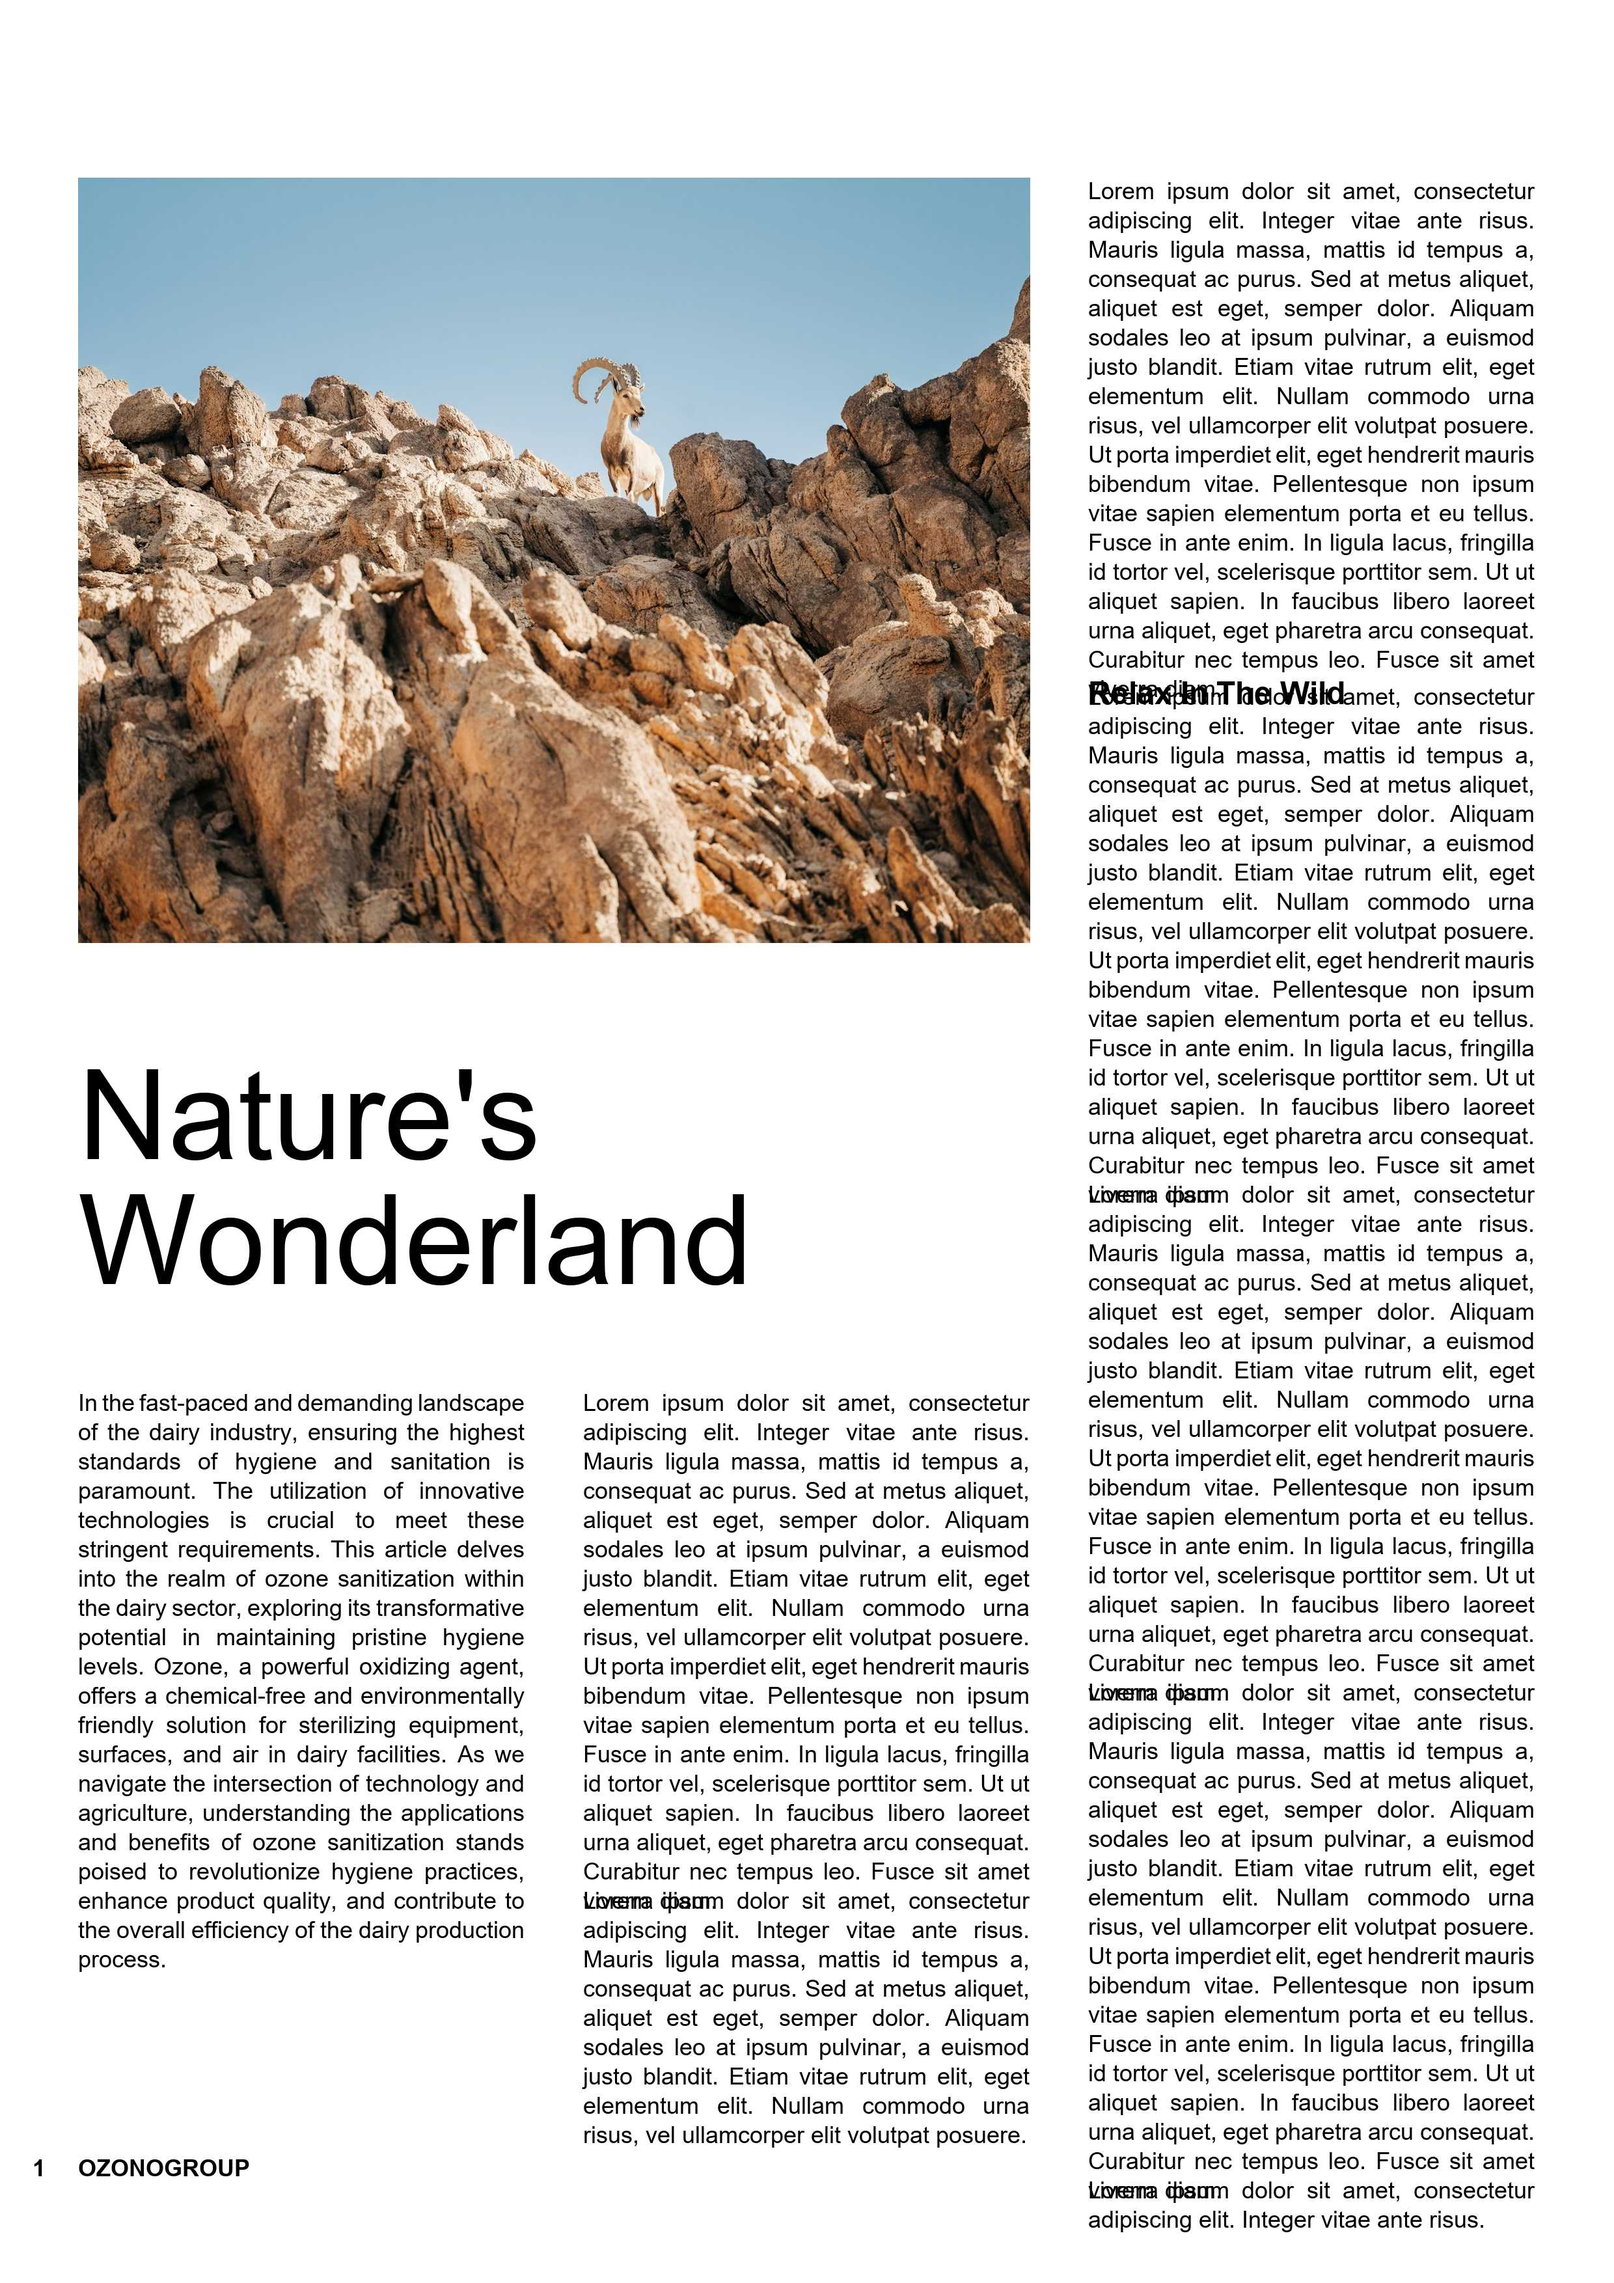
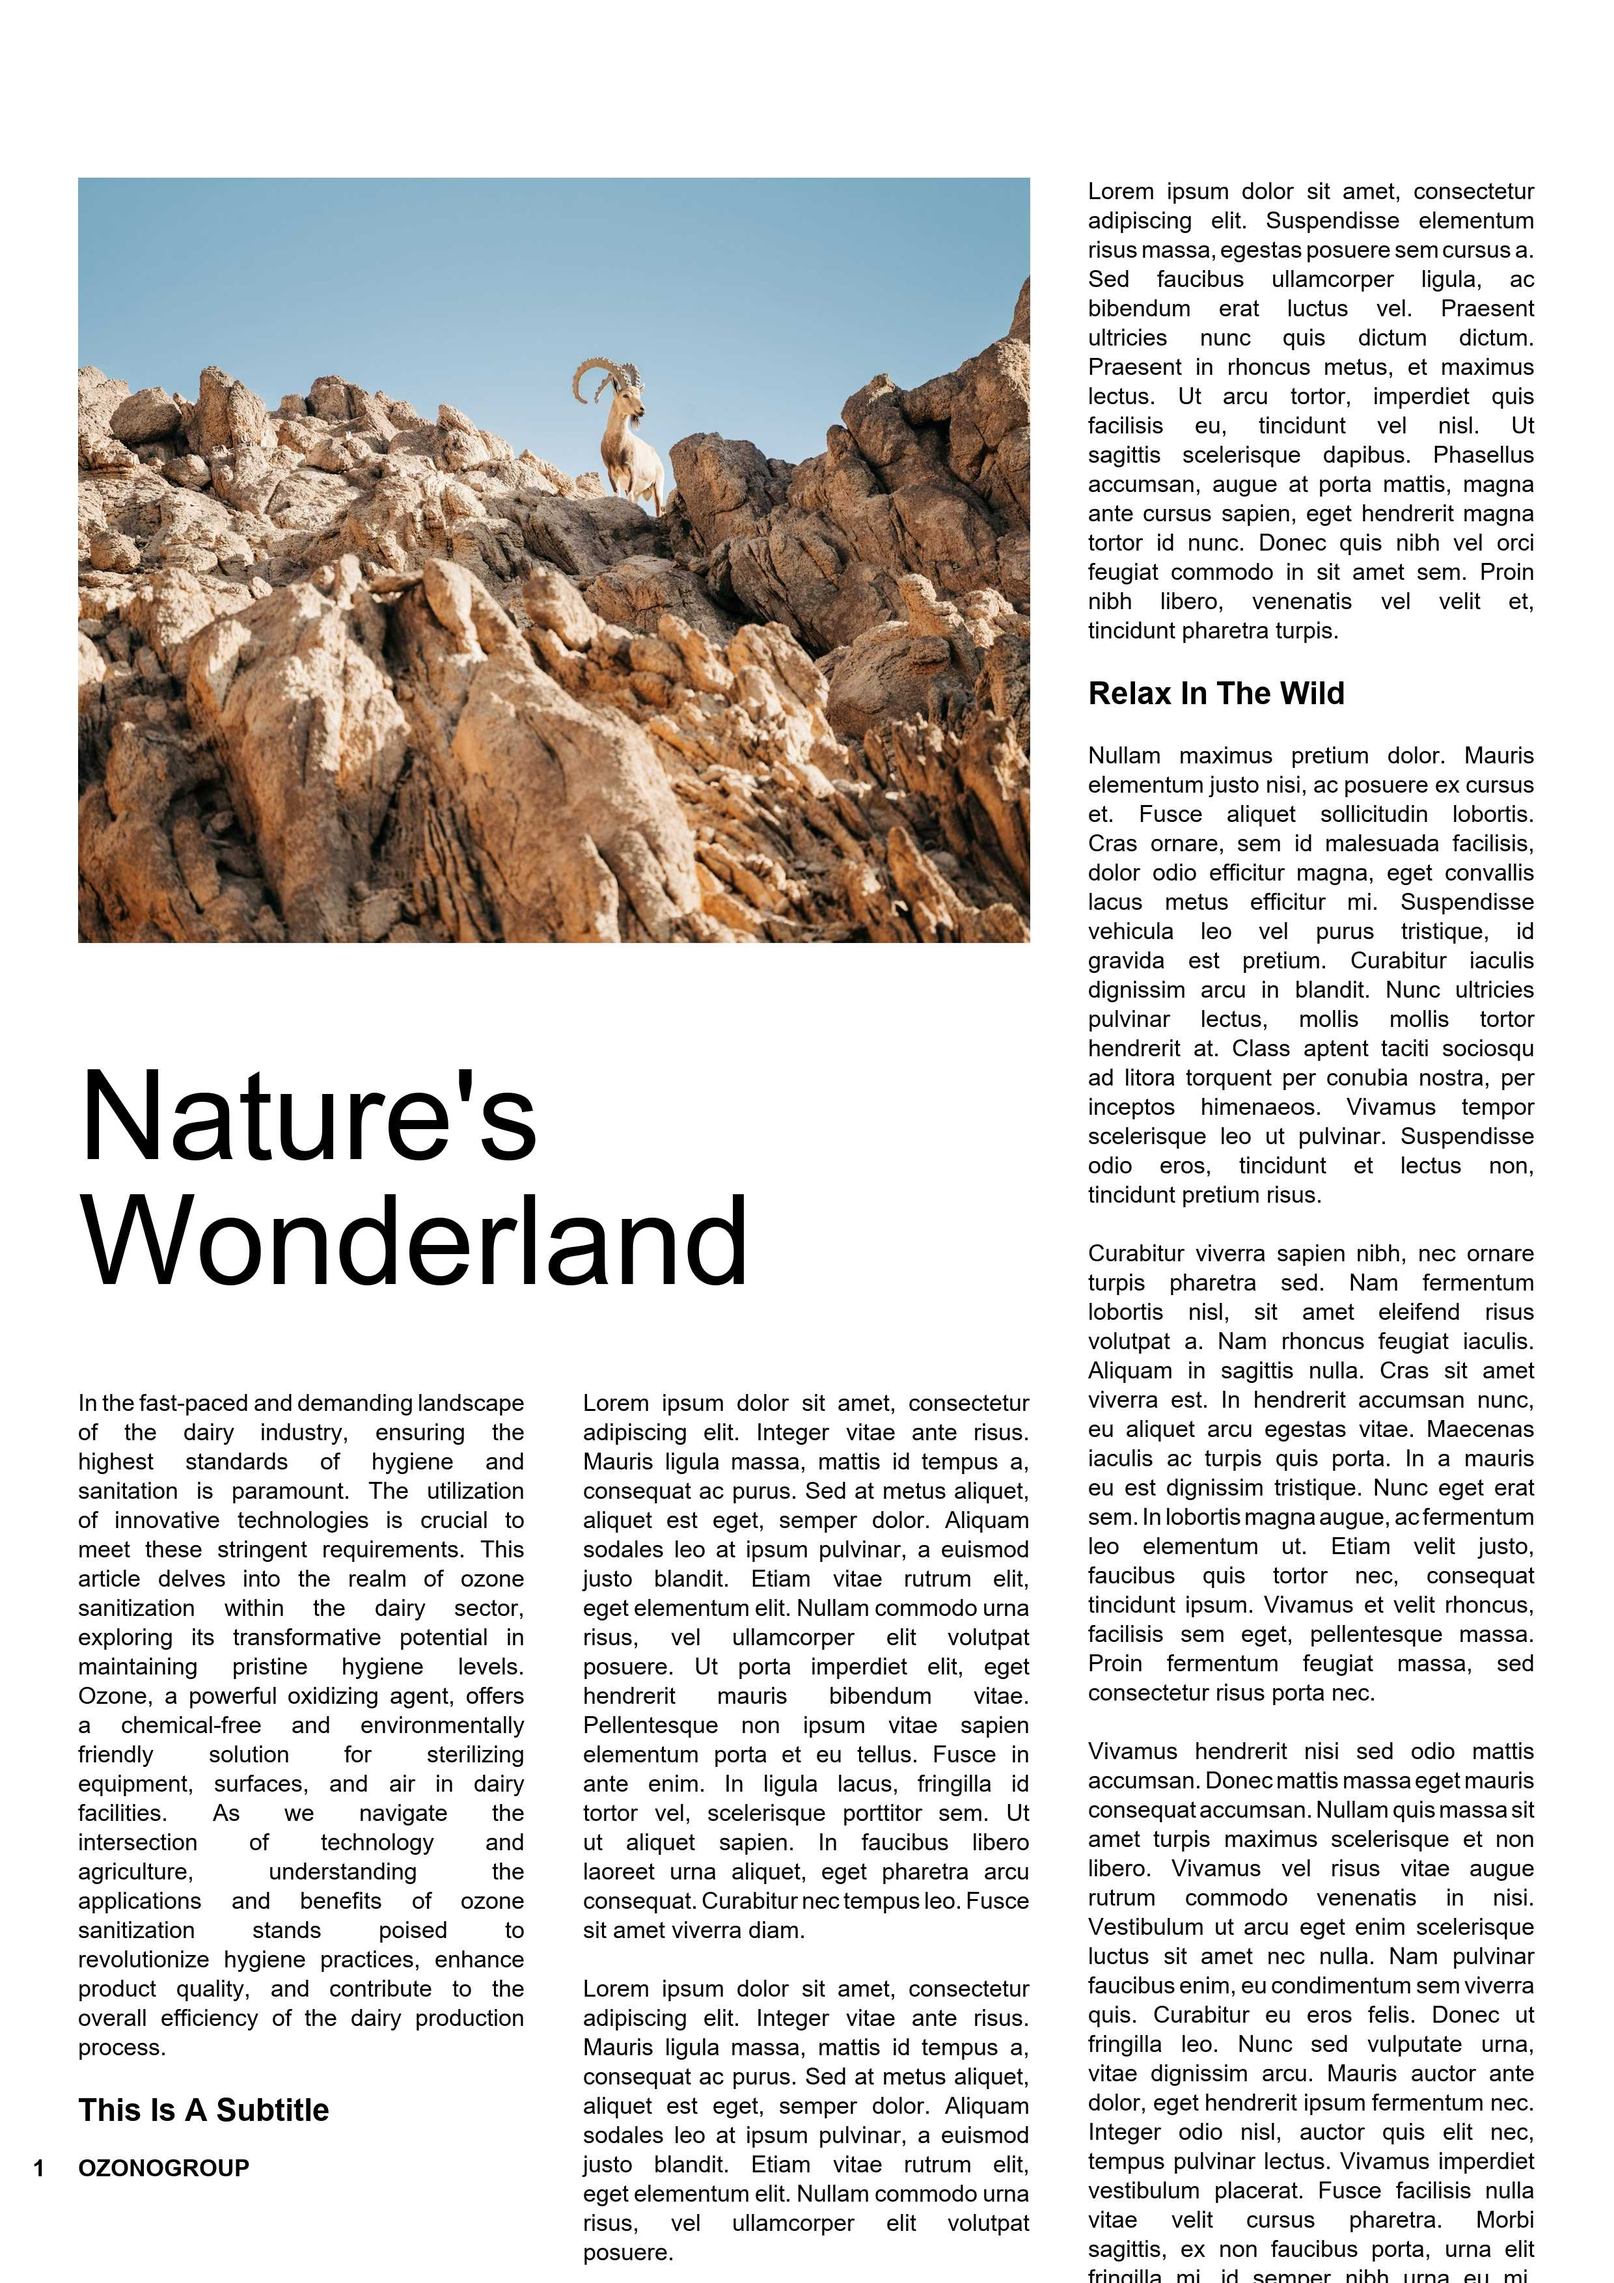
'

Changed region(s): [[0.652, 0.0932, 0.9625, 1.0], [0.031, 0.6214, 0.652, 0.9943]]

diff --git a/admin/magazine-python/main.py b/admin/magazine-python/main.py
@@ -169,23 +169,20 @@ def text_to_lines_optim(text):
     font = ImageFont.truetype(TEXT_FONT, TEXT_SIZE)
     text_width_optim = 0
     text_width_curr_best = 9999
-    for i in range(10):
-        offset = i*10
+    step_num = 10
+    for i in range(step_num):
+        offset = i*TEXT_SIZE
         lines = text_to_lines(text, column_w-offset)
 
-        # print(column_w-offset)
         text_width_min = 9999
         text_width_max = 0
         for line in lines[:-1]:
             line_w = font.getbbox(line)[2]
             if text_width_min > line_w: text_width_min = line_w
             if text_width_max < line_w: text_width_max = line_w
-            # print(line)
-        # print(lines[-1])
         if text_width_curr_best > text_width_max - text_width_min:
             text_width_curr_best = text_width_max - text_width_min
             text_width_optim = column_w-offset
-        # print()
     
     lines = text_to_lines(text, text_width_optim)
     return lines
@@ -204,14 +201,12 @@ def draw_text_column(filename, x_start, y_start, color='#000000'):
         lines = text_to_lines_optim(paragraph)
         paragraphs.append(lines)
 
-        # text = file_read('text.md')
-        # lines = text.split('\n')
-        # paragraphs.append(lines)
-
     y = y_start
     for i in range(len(paragraphs)):
         paragraph_index = i
-        if not paragraphs[paragraph_index]:
+        # IF PARAGRAPH IS NONE OR EMPTY: RENDER BLANK LINE (TO SEPARATE NEXT PARAGRAPH)
+        # >> maybe fix "text_to_lines_optim" to get none list instead of empty one 
+        if not paragraphs[paragraph_index] or paragraphs[paragraph_index][0] == '':
             y += TEXT_SIZE*TEXT_LINE_SPACING*2
         else:
             lines_num = len(paragraphs[paragraph_index])

diff --git a/admin/magazine-python/page-1/col-3.md b/admin/magazine-python/page-1/col-3.md
@@ -1,11 +1,11 @@
-Lorem ipsum dolor sit amet, consectetur adipiscing elit. Integer vitae ante risus. Mauris ligula massa, mattis id tempus a, consequat ac purus. Sed at metus aliquet, aliquet est eget, semper dolor. Aliquam sodales leo at ipsum pulvinar, a euismod justo blandit. Etiam vitae rutrum elit, eget elementum elit. Nullam commodo urna risus, vel ullamcorper elit volutpat posuere. Ut porta imperdiet elit, eget hendrerit mauris bibendum vitae. Pellentesque non ipsum vitae sapien elementum porta et eu tellus. Fusce in ante enim. In ligula lacus, fringilla id tortor vel, scelerisque porttitor sem. Ut ut aliquet sapien. In faucibus libero laoreet urna aliquet, eget pharetra arcu consequat. Curabitur nec tempus leo. Fusce sit amet viverra diam.
+Lorem ipsum dolor sit amet, consectetur adipiscing elit. Suspendisse elementum risus massa, egestas posuere sem cursus a. Sed faucibus ullamcorper ligula, ac bibendum erat luctus vel. Praesent ultricies nunc quis dictum dictum. Praesent in rhoncus metus, et maximus lectus. Ut arcu tortor, imperdiet quis facilisis eu, tincidunt vel nisl. Ut sagittis scelerisque dapibus. Phasellus accumsan, augue at porta mattis, magna ante cursus sapien, eget hendrerit magna tortor id nunc. Donec quis nibh vel orci feugiat commodo in sit amet sem. Proin nibh libero, venenatis vel velit et, tincidunt pharetra turpis.
 
 ## Relax In The Wild
 
-Lorem ipsum dolor sit amet, consectetur adipiscing elit. Integer vitae ante risus. Mauris ligula massa, mattis id tempus a, consequat ac purus. Sed at metus aliquet, aliquet est eget, semper dolor. Aliquam sodales leo at ipsum pulvinar, a euismod justo blandit. Etiam vitae rutrum elit, eget elementum elit. Nullam commodo urna risus, vel ullamcorper elit volutpat posuere. Ut porta imperdiet elit, eget hendrerit mauris bibendum vitae. Pellentesque non ipsum vitae sapien elementum porta et eu tellus. Fusce in ante enim. In ligula lacus, fringilla id tortor vel, scelerisque porttitor sem. Ut ut aliquet sapien. In faucibus libero laoreet urna aliquet, eget pharetra arcu consequat. Curabitur nec tempus leo. Fusce sit amet viverra diam.
+Nullam maximus pretium dolor. Mauris elementum justo nisi, ac posuere ex cursus et. Fusce aliquet sollicitudin lobortis. Cras ornare, sem id malesuada facilisis, dolor odio efficitur magna, eget convallis lacus metus efficitur mi. Suspendisse vehicula leo vel purus tristique, id gravida est pretium. Curabitur iaculis dignissim arcu in blandit. Nunc ultricies pulvinar lectus, mollis mollis tortor hendrerit at. Class aptent taciti sociosqu ad litora torquent per conubia nostra, per inceptos himenaeos. Vivamus tempor scelerisque leo ut pulvinar. Suspendisse odio eros, tincidunt et lectus non, tincidunt pretium risus.
 
-Lorem ipsum dolor sit amet, consectetur adipiscing elit. Integer vitae ante risus. Mauris ligula massa, mattis id tempus a, consequat ac purus. Sed at metus aliquet, aliquet est eget, semper dolor. Aliquam sodales leo at ipsum pulvinar, a euismod justo blandit. Etiam vitae rutrum elit, eget elementum elit. Nullam commodo urna risus, vel ullamcorper elit volutpat posuere. Ut porta imperdiet elit, eget hendrerit mauris bibendum vitae. Pellentesque non ipsum vitae sapien elementum porta et eu tellus. Fusce in ante enim. In ligula lacus, fringilla id tortor vel, scelerisque porttitor sem. Ut ut aliquet sapien. In faucibus libero laoreet urna aliquet, eget pharetra arcu consequat. Curabitur nec tempus leo. Fusce sit amet viverra diam.
+Curabitur viverra sapien nibh, nec ornare turpis pharetra sed. Nam fermentum lobortis nisl, sit amet eleifend risus volutpat a. Nam rhoncus feugiat iaculis. Aliquam in sagittis nulla. Cras sit amet viverra est. In hendrerit accumsan nunc, eu aliquet arcu egestas vitae. Maecenas iaculis ac turpis quis porta. In a mauris eu est dignissim tristique. Nunc eget erat sem. In lobortis magna augue, ac fermentum leo elementum ut. Etiam velit justo, faucibus quis tortor nec, consequat tincidunt ipsum. Vivamus et velit rhoncus, facilisis sem eget, pellentesque massa. Proin fermentum feugiat massa, sed consectetur risus porta nec.
 
-Lorem ipsum dolor sit amet, consectetur adipiscing elit. Integer vitae ante risus. Mauris ligula massa, mattis id tempus a, consequat ac purus. Sed at metus aliquet, aliquet est eget, semper dolor. Aliquam sodales leo at ipsum pulvinar, a euismod justo blandit. Etiam vitae rutrum elit, eget elementum elit. Nullam commodo urna risus, vel ullamcorper elit volutpat posuere. Ut porta imperdiet elit, eget hendrerit mauris bibendum vitae. Pellentesque non ipsum vitae sapien elementum porta et eu tellus. Fusce in ante enim. In ligula lacus, fringilla id tortor vel, scelerisque porttitor sem. Ut ut aliquet sapien. In faucibus libero laoreet urna aliquet, eget pharetra arcu consequat. Curabitur nec tempus leo. Fusce sit amet viverra diam.
+Vivamus hendrerit nisi sed odio mattis accumsan. Donec mattis massa eget mauris consequat accumsan. Nullam quis massa sit amet turpis maximus scelerisque et non libero. Vivamus vel risus vitae augue rutrum commodo venenatis in nisi. Vestibulum ut arcu eget enim scelerisque luctus sit amet nec nulla. Nam pulvinar faucibus enim, eu condimentum sem viverra quis. Curabitur eu eros felis. Donec ut fringilla leo. Nunc sed vulputate urna, vitae dignissim arcu. Mauris auctor ante dolor, eget hendrerit ipsum fermentum nec. Integer odio nisl, auctor quis elit nec, tempus pulvinar lectus. Vivamus imperdiet vestibulum placerat. Fusce facilisis nulla vitae velit cursus pharetra. Morbi sagittis, ex non faucibus porta, urna elit fringilla mi, id semper nibh urna eu mi. Sed sit amet molestie turpis, sit amet lacinia nunc.
 
-Lorem ipsum dolor sit amet, consectetur adipiscing elit. Integer vitae ante risus.
+Quisque malesuada tellus urna, ac mattis mi semper vel. Quisque eu consequat elit. Donec varius enim vitae eros rutrum facilisis. Suspendisse potenti. Cras laoreet augue erat, vel venenatis libero egestas eu. Nunc convallis nisl efficitur ipsum facilisis, in maximus sapien auctor. Proin ornare ut ex sit amet posuere. Praesent rhoncus ipsum quis nibh accumsan, cursus scelerisque sapien feugiat. Nullam non ipsum massa. Fusce placerat eros et gravida venenatis. Nullam ullamcorper ullamcorper sem, eget gravida quam dignissim eget. Aenean rutrum fringilla dolor ut vestibulum. Nam consectetur nisl nec tellus feugiat ultrices. Curabitur vitae diam feugiat erat ultrices sollicitudin. Vivamus eros augue, feugiat quis lorem at, semper rhoncus augue.

diff --git a/admin/magazine-python/page-1/col-1.md b/admin/magazine-python/page-1/col-1.md
@@ -1,1 +1,3 @@
 In the fast-paced and demanding landscape of the dairy industry, ensuring the highest standards of hygiene and sanitation is paramount. The utilization of innovative technologies is crucial to meet these stringent requirements. This article delves into the realm of ozone sanitization within the dairy sector, exploring its transformative potential in maintaining pristine hygiene levels. Ozone, a powerful oxidizing agent, offers a chemical-free and environmentally friendly solution for sterilizing equipment, surfaces, and air in dairy facilities. As we navigate the intersection of technology and agriculture, understanding the applications and benefits of ozone sanitization stands poised to revolutionize hygiene practices, enhance product quality, and contribute to the overall efficiency of the dairy production process.
+
+## This Is A Subtitle
